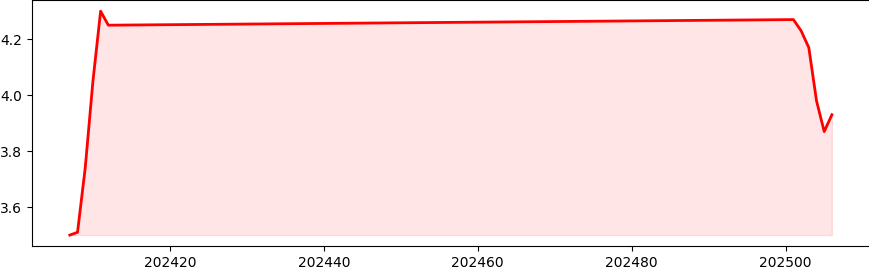
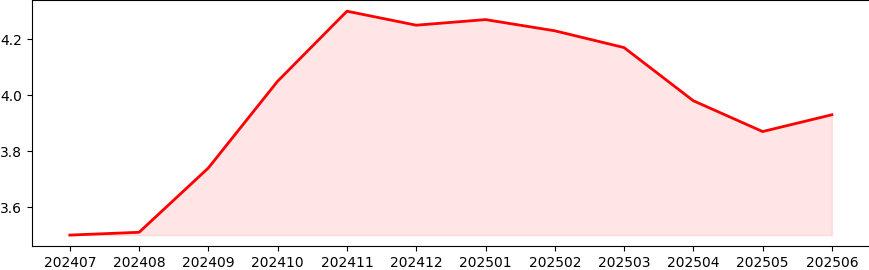
📈 README 및 금리 데이터 자동 업데이트 (2025-08-06)

Changed region(s): [[0.0621, 0.0296, 0.9632, 0.8889], [0.0311, 0.9481, 0.9942, 1.0]]

diff --git a/README.md b/README.md
@@ -8,93 +8,6 @@
 
 |날짜|ITEM_NAME1|DATA_VALUE|
 |---|---|---|
-|201704|주택담보대출|3.21|
-|201705|주택담보대출|3.26|
-|201706|주택담보대출|3.22|
-|201707|주택담보대출|3.28|
-|201708|주택담보대출|3.28|
-|201709|주택담보대출|3.24|
-|201710|주택담보대출|3.33|
-|201711|주택담보대출|3.39|
-|201712|주택담보대출|3.42|
-|201801|주택담보대출|3.47|
-|201802|주택담보대출|3.46|
-|201803|주택담보대출|3.45|
-|201804|주택담보대출|3.47|
-|201805|주택담보대출|3.49|
-|201806|주택담보대출|3.46|
-|201807|주택담보대출|3.44|
-|201808|주택담보대출|3.36|
-|201809|주택담보대출|3.29|
-|201810|주택담보대출|3.31|
-|201811|주택담보대출|3.28|
-|201812|주택담보대출|3.19|
-|201901|주택담보대출|3.12|
-|201902|주택담보대출|3.08|
-|201903|주택담보대출|3.04|
-|201904|주택담보대출|2.98|
-|201905|주택담보대출|2.93|
-|201906|주택담보대출|2.74|
-|201907|주택담보대출|2.64|
-|201908|주택담보대출|2.47|
-|201909|주택담보대출|2.51|
-|201910|주택담보대출|2.5|
-|201911|주택담보대출|2.45|
-|201912|주택담보대출|2.45|
-|202001|주택담보대출|2.51|
-|202002|주택담보대출|2.52|
-|202003|주택담보대출|2.48|
-|202004|주택담보대출|2.58|
-|202005|주택담보대출|2.52|
-|202006|주택담보대출|2.49|
-|202007|주택담보대출|2.45|
-|202008|주택담보대출|2.39|
-|202009|주택담보대출|2.44|
-|202010|주택담보대출|2.47|
-|202011|주택담보대출|2.56|
-|202012|주택담보대출|2.59|
-|202101|주택담보대출|2.63|
-|202102|주택담보대출|2.66|
-|202103|주택담보대출|2.73|
-|202104|주택담보대출|2.73|
-|202105|주택담보대출|2.69|
-|202106|주택담보대출|2.74|
-|202107|주택담보대출|2.81|
-|202108|주택담보대출|2.88|
-|202109|주택담보대출|3.01|
-|202110|주택담보대출|3.26|
-|202111|주택담보대출|3.51|
-|202112|주택담보대출|3.63|
-|202201|주택담보대출|3.85|
-|202202|주택담보대출|3.88|
-|202203|주택담보대출|3.84|
-|202204|주택담보대출|3.9|
-|202205|주택담보대출|3.9|
-|202206|주택담보대출|4.04|
-|202207|주택담보대출|4.16|
-|202208|주택담보대출|4.35|
-|202209|주택담보대출|4.79|
-|202210|주택담보대출|4.82|
-|202211|주택담보대출|4.74|
-|202212|주택담보대출|4.63|
-|202301|주택담보대출|4.58|
-|202302|주택담보대출|4.56|
-|202303|주택담보대출|4.4|
-|202304|주택담보대출|4.24|
-|202305|주택담보대출|4.21|
-|202306|주택담보대출|4.26|
-|202307|주택담보대출|4.28|
-|202308|주택담보대출|4.31|
-|202309|주택담보대출|4.35|
-|202310|주택담보대출|4.56|
-|202311|주택담보대출|4.48|
-|202312|주택담보대출|4.16|
-|202401|주택담보대출|3.99|
-|202402|주택담보대출|3.96|
-|202403|주택담보대출|3.94|
-|202404|주택담보대출|3.93|
-|202405|주택담보대출|3.91|
-|202406|주택담보대출|3.71|
 |202407|주택담보대출|3.5|
 |202408|주택담보대출|3.51|
 |202409|주택담보대출|3.74|
@@ -117,93 +30,6 @@
 
 |날짜|ITEM_NAME1|DATA_VALUE|
 |---|---|---|
-|201704|일반신용대출 2)|4.52|
-|201705|일반신용대출 2)|4.45|
-|201706|일반신용대출 2)|4.41|
-|201707|일반신용대출 2)|4.44|
-|201708|일반신용대출 2)|3.78|
-|201709|일반신용대출 2)|4.01|
-|201710|일반신용대출 2)|4.15|
-|201711|일반신용대출 2)|4.3|
-|201712|일반신용대출 2)|4.38|
-|201801|일반신용대출 2)|4.39|
-|201802|일반신용대출 2)|4.34|
-|201803|일반신용대출 2)|4.48|
-|201804|일반신용대출 2)|4.49|
-|201805|일반신용대출 2)|4.56|
-|201806|일반신용대출 2)|4.57|
-|201807|일반신용대출 2)|4.56|
-|201808|일반신용대출 2)|4.47|
-|201809|일반신용대출 2)|4.39|
-|201810|일반신용대출 2)|4.45|
-|201811|일반신용대출 2)|4.56|
-|201812|일반신용대출 2)|4.64|
-|201901|일반신용대출 2)|4.57|
-|201902|일반신용대출 2)|4.49|
-|201903|일반신용대출 2)|4.63|
-|201904|일반신용대출 2)|4.54|
-|201905|일반신용대출 2)|4.4|
-|201906|일반신용대출 2)|4.23|
-|201907|일반신용대출 2)|3.96|
-|201908|일반신용대출 2)|3.63|
-|201909|일반신용대출 2)|3.86|
-|201910|일반신용대출 2)|3.9|
-|201911|일반신용대출 2)|3.9|
-|201912|일반신용대출 2)|3.87|
-|202001|일반신용대출 2)|3.83|
-|202002|일반신용대출 2)|3.7|
-|202003|일반신용대출 2)|3.49|
-|202004|일반신용대출 2)|3.5|
-|202005|일반신용대출 2)|3.33|
-|202006|일반신용대출 2)|2.93|
-|202007|일반신용대출 2)|2.92|
-|202008|일반신용대출 2)|2.86|
-|202009|일반신용대출 2)|2.89|
-|202010|일반신용대출 2)|3.15|
-|202011|일반신용대출 2)|3.01|
-|202012|일반신용대출 2)|3.5|
-|202101|일반신용대출 2)|3.46|
-|202102|일반신용대출 2)|3.61|
-|202103|일반신용대출 2)|3.7|
-|202104|일반신용대출 2)|3.65|
-|202105|일반신용대출 2)|3.69|
-|202106|일반신용대출 2)|3.75|
-|202107|일반신용대출 2)|3.86|
-|202108|일반신용대출 2)|3.97|
-|202109|일반신용대출 2)|4.15|
-|202110|일반신용대출 2)|4.62|
-|202111|일반신용대출 2)|5.16|
-|202112|일반신용대출 2)|5.12|
-|202201|일반신용대출 2)|5.28|
-|202202|일반신용대출 2)|5.33|
-|202203|일반신용대출 2)|5.46|
-|202204|일반신용대출 2)|5.62|
-|202205|일반신용대출 2)|5.78|
-|202206|일반신용대출 2)|6.0|
-|202207|일반신용대출 2)|5.91|
-|202208|일반신용대출 2)|6.24|
-|202209|일반신용대출 2)|6.62|
-|202210|일반신용대출 2)|7.22|
-|202211|일반신용대출 2)|7.85|
-|202212|일반신용대출 2)|7.97|
-|202301|일반신용대출 2)|7.21|
-|202302|일반신용대출 2)|6.55|
-|202303|일반신용대출 2)|6.44|
-|202304|일반신용대출 2)|6.3|
-|202305|일반신용대출 2)|6.56|
-|202306|일반신용대출 2)|6.47|
-|202307|일반신용대출 2)|6.52|
-|202308|일반신용대출 2)|6.53|
-|202309|일반신용대출 2)|6.59|
-|202310|일반신용대출 2)|6.81|
-|202311|일반신용대출 2)|6.85|
-|202312|일반신용대출 2)|6.58|
-|202401|일반신용대출 2)|6.38|
-|202402|일반신용대출 2)|6.29|
-|202403|일반신용대출 2)|6.14|
-|202404|일반신용대출 2)|6.02|
-|202405|일반신용대출 2)|6.11|
-|202406|일반신용대출 2)|6.04|
 |202407|일반신용대출 2)|5.78|
 |202408|일반신용대출 2)|5.65|
 |202409|일반신용대출 2)|5.87|
